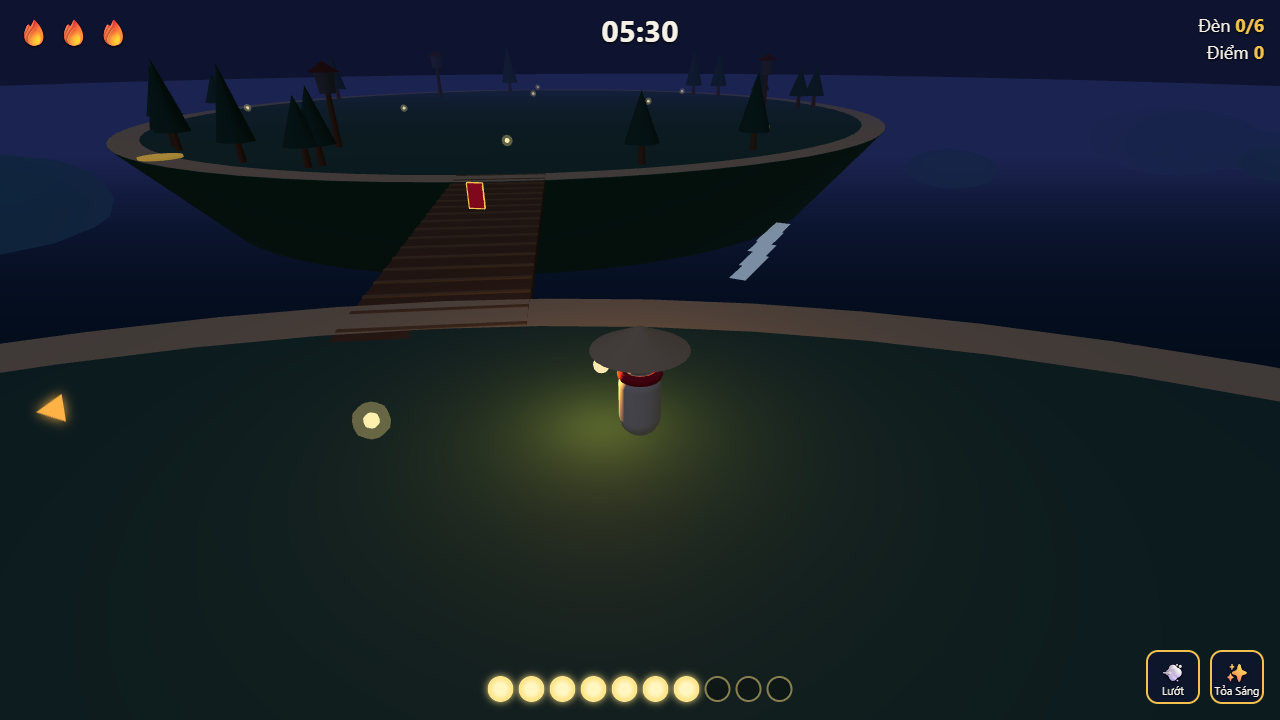
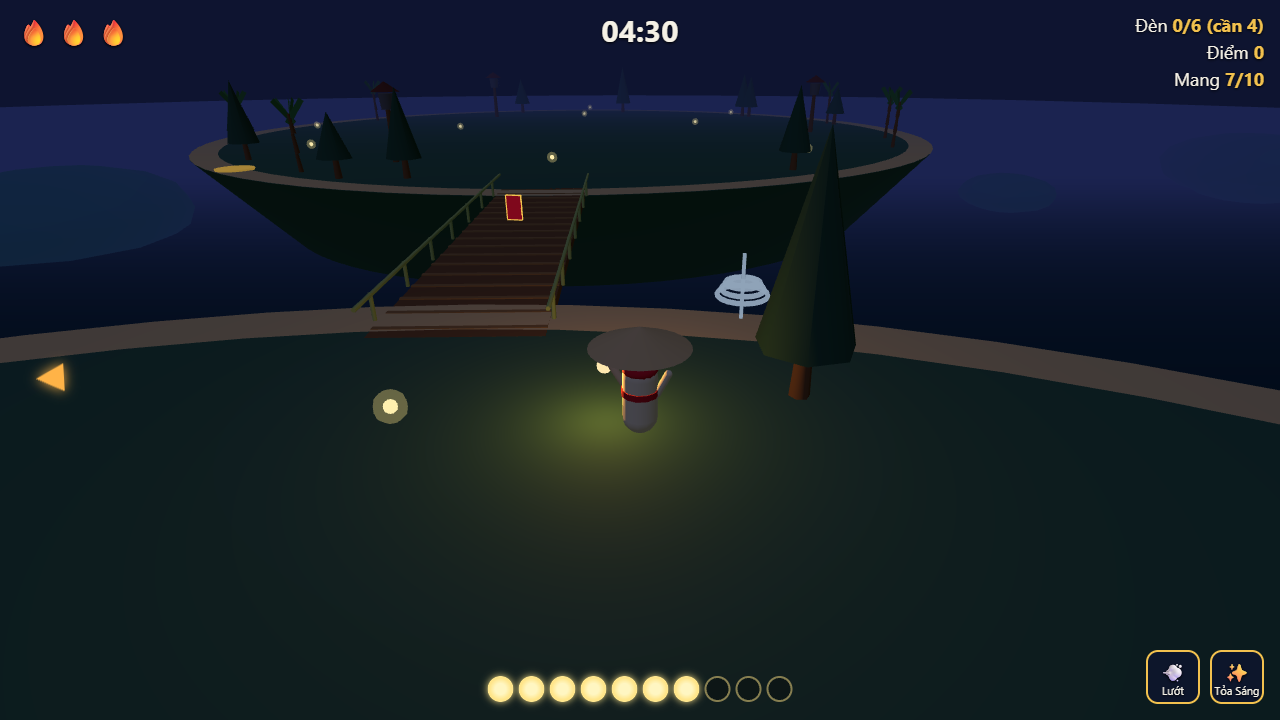
Visual redesign: player arms, shade ink-drop, drifter vortex, palm trees, bridge rails, tower lanterns
5-Component Filter (Fit & Clarity): entities now read more clearly as their role.
- Mây: add two capsule arms + waist sash — no longer looks like a puppet
- Bóng Mực: ink-drop body (taller, tapered), 3 wisp tentacles, menacing angled eyes
- Gió Lạc: vortex ring stack replaces 4 flat planes — readable as wind spirit
- Cây: 45% coconut palms (curved multi-segment trunk + 5 fan fronds) for variety
- Đêm 2 bridge: bamboo handrails on both sides
- Đêm 3 tower: 4 glowing eave lanterns + red accent ring
All changes in src/web/ only; headless output unchanged (79/79 tests pass).

diff --git a/src/web/world.ts b/src/web/world.ts
@@ -74,6 +74,18 @@ export function buildTerrain(map: NightDef): THREE.Group {
       slat.position.set(x, 0.01, 0);
       g.add(slat);
     }
+    // Bamboo handrails on both sides
+    for (const sz of [-2.1, 2.1]) {
+      const rail = new THREE.Mesh(new THREE.CylinderGeometry(0.055, 0.055, 18, 6), std(0x9ab870));
+      rail.rotation.z = Math.PI / 2;
+      rail.position.set(35, 0.65, sz);
+      g.add(rail);
+      for (let x = 27; x <= 43; x += 2.5) {
+        const post = new THREE.Mesh(new THREE.CylinderGeometry(0.055, 0.055, 0.7, 6), std(0x9ab870));
+        post.position.set(x, 0.35, sz);
+        g.add(post);
+      }
+    }
   }
   if (map.night === 3) {
     addIslandDisk(g, 0, 0, 45);
@@ -89,11 +101,23 @@ export function buildTerrain(map: NightDef): THREE.Group {
     g.add(t2);
     const tower = new THREE.Mesh(new THREE.CylinderGeometry(2, 2, 8, 24), std(PAL.wood));
     tower.position.y = 10;
+    // Red accent ring near tower top
+    const towerRing = new THREE.Mesh(new THREE.CylinderGeometry(2.08, 2.08, 0.18, 24), std(0xb82020));
+    towerRing.position.y = 13.5;
     const roof = new THREE.Mesh(new THREE.ConeGeometry(3, 2.5, 8), std(0x5a2a22));
     roof.position.y = 15.2;
     const bell = new THREE.Mesh(new THREE.SphereGeometry(0.9, 16, 12, 0, Math.PI * 2, 0, Math.PI / 2), std(PAL.gold, { metalness: 0.6, roughness: 0.4 }));
     bell.position.y = 13.4;
-    g.add(tower, roof, bell);
+    // 4 small hanging lanterns under roof eaves
+    for (let i = 0; i < 4; i++) {
+      const ea = (i / 4) * Math.PI * 2;
+      const hLamp = new THREE.Mesh(new THREE.SphereGeometry(0.18, 8, 6), std(PAL.lampOn, { emissive: new THREE.Color(PAL.lampOn), emissiveIntensity: 0.9 }));
+      hLamp.position.set(Math.cos(ea) * 2.4, 14.6, Math.sin(ea) * 2.4);
+      const hString = new THREE.Mesh(new THREE.CylinderGeometry(0.015, 0.015, 0.4, 4), std(PAL.wood));
+      hString.position.set(Math.cos(ea) * 2.4, 14.9, Math.sin(ea) * 2.4);
+      g.add(hLamp, hString);
+    }
+    g.add(tower, towerRing, roof, bell);
     for (const deg of [30, 150]) {
       const prof = new THREE.Shape();
       prof.moveTo(0, 0);
@@ -114,6 +138,7 @@ export function buildTerrain(map: NightDef): THREE.Group {
   // decorative trees near shores (never on the play paths)
   const treeMat = std(0x1f4a3c);
   const trunkMat = std(PAL.wood);
+  const palmFrondMat = new THREE.MeshLambertMaterial({ color: 0x3a7a4a, side: THREE.DoubleSide });
   for (const [cx, cz] of map.centers) {
     const R = map.night === 1 ? 40 : map.night === 2 ? 28 : 45;
     for (let i = 0; i < 18; i++) {
@@ -123,13 +148,34 @@ export function buildTerrain(map: NightDef): THREE.Group {
       const z = cz + r * Math.sin(a);
       if (map.ground(x, z) !== 0) continue;
       if (map.night === 2 && Math.abs(z) < 4 && x > 20 && x < 50) continue; // keep bridge ends clear
-      const h = 2 + rng() * 2;
       const tr = new THREE.Group();
-      const trunk = new THREE.Mesh(new THREE.CylinderGeometry(0.15, 0.2, 1, 6), trunkMat);
-      trunk.position.y = 0.5;
-      const crown = new THREE.Mesh(new THREE.ConeGeometry(0.9, h, 7), treeMat);
-      crown.position.y = 1 + h / 2;
-      tr.add(trunk, crown);
+      if (rng() < 0.45) {
+        // Coconut palm: 3 angled trunk segments + frond fan
+        const lean = (rng() - 0.5) * 0.25;
+        for (let s = 0; s < 3; s++) {
+          const seg = new THREE.Mesh(new THREE.CylinderGeometry(0.09, 0.14, 1.0, 6), trunkMat);
+          seg.position.set(s * lean * 0.4, 0.5 + s, 0);
+          seg.rotation.z = lean;
+          tr.add(seg);
+        }
+        // 5 flat fronds radiating from crown
+        for (let f = 0; f < 5; f++) {
+          const fa = (f / 5) * Math.PI * 2;
+          const frond = new THREE.Mesh(new THREE.PlaneGeometry(0.28, 1.5), palmFrondMat);
+          frond.position.set(Math.cos(fa) * 0.28 + lean * 1.2, 3.1, Math.sin(fa) * 0.28);
+          frond.rotation.y = -fa;
+          frond.rotation.z = -0.65;
+          tr.add(frond);
+        }
+      } else {
+        // Conifer / pine (original style, slightly varied)
+        const h = 2 + rng() * 2;
+        const trunk = new THREE.Mesh(new THREE.CylinderGeometry(0.15, 0.2, 1, 6), trunkMat);
+        trunk.position.y = 0.5;
+        const crown = new THREE.Mesh(new THREE.ConeGeometry(0.9, h, 7), treeMat);
+        crown.position.y = 1 + h / 2;
+        tr.add(trunk, crown);
+      }
       tr.position.set(x, 0, z);
       g.add(tr);
     }
@@ -139,20 +185,36 @@ export function buildTerrain(map: NightDef): THREE.Group {
 
 export function makePlayer() {
   const g = new THREE.Group();
-  const body = new THREE.Mesh(new THREE.CapsuleGeometry(0.33, 0.55, 4, 12), std(PAL.shirt));
-  body.position.y = 0.62;
-  const scarf = new THREE.Mesh(new THREE.TorusGeometry(0.27, 0.08, 8, 20), std(PAL.scarf));
+  // Áo dài silhouette: slimmer body, longer torso
+  const body = new THREE.Mesh(new THREE.CapsuleGeometry(0.29, 0.72, 4, 12), std(PAL.shirt));
+  body.position.y = 0.66;
+  // Waist sash
+  const sash = new THREE.Mesh(new THREE.CylinderGeometry(0.31, 0.31, 0.11, 12), std(PAL.scarf));
+  sash.position.y = 0.76;
+  // Neck scarf
+  const scarf = new THREE.Mesh(new THREE.TorusGeometry(0.22, 0.07, 8, 16), std(PAL.scarf));
   scarf.rotation.x = Math.PI / 2;
-  scarf.position.y = 1.08;
-  const head = new THREE.Mesh(new THREE.SphereGeometry(0.27, 16, 12), std(0xf3d2b3));
-  head.position.y = 1.32;
-  const hat = new THREE.Mesh(new THREE.ConeGeometry(0.75, 0.38, 28), std(PAL.sand));
-  hat.position.y = 1.67;
+  scarf.position.y = 1.14;
+  // Head
+  const head = new THREE.Mesh(new THREE.SphereGeometry(0.26, 16, 12), std(0xf3d2b3));
+  head.position.y = 1.38;
+  // Nón lá (wider, flatter — more authentic)
+  const hat = new THREE.Mesh(new THREE.ConeGeometry(0.82, 0.35, 32), std(PAL.sand));
+  hat.position.y = 1.69;
+  // Right arm — raised, holding lantern
+  const armR = new THREE.Mesh(new THREE.CapsuleGeometry(0.065, 0.42, 4, 8), std(0xf3d2b3));
+  armR.position.set(0.38, 0.95, 0.12);
+  armR.rotation.z = -0.55;
+  // Left arm — relaxed
+  const armL = new THREE.Mesh(new THREE.CapsuleGeometry(0.065, 0.42, 4, 8), std(PAL.shirt));
+  armL.position.set(-0.36, 0.9, 0);
+  armL.rotation.z = 0.45;
+  // Small hand-held lantern (at tip of right arm)
   const lamp = new THREE.Mesh(new THREE.SphereGeometry(0.13, 12, 10), new THREE.MeshBasicMaterial({ color: PAL.lampCore }));
-  lamp.position.set(0.6, 1.12, 0.15);
+  lamp.position.set(0.62, 1.05, 0.22);
   const light = new THREE.PointLight(PAL.lampOn, 6, 12, 1.4);
   light.position.copy(lamp.position);
-  g.add(body, scarf, head, hat, lamp, light);
+  g.add(body, sash, scarf, head, hat, armR, armL, lamp, light);
   return { g, light };
 }
 
@@ -215,17 +277,31 @@ export interface ShadeView {
 }
 export function makeShade(): ShadeView {
   const g = new THREE.Group();
+  // Ink-drop body: taller, tapers toward bottom
   const body = std(PAL.shadeBody, { roughness: 0.5 });
-  const blob = new THREE.Mesh(new THREE.SphereGeometry(0.8, 20, 14), body);
-  blob.scale.set(1, 1.15, 1);
+  const blob = new THREE.Mesh(new THREE.SphereGeometry(0.75, 20, 14), body);
+  blob.scale.set(1, 1.4, 1);
+  blob.position.y = 0.1;
   const rim = new THREE.MeshBasicMaterial({ color: PAL.shadeRim, side: THREE.BackSide });
-  const outline = new THREE.Mesh(new THREE.SphereGeometry(0.88, 20, 14), rim);
-  outline.scale.set(1, 1.15, 1);
+  const outline = new THREE.Mesh(new THREE.SphereGeometry(0.83, 20, 14), rim);
+  outline.scale.set(1, 1.4, 1);
+  outline.position.y = 0.1;
+  // Eyes — angled to look menacing
   const eyeMat = new THREE.MeshBasicMaterial({ color: 0xe8d8ff });
-  for (const sx of [-0.28, 0.28]) {
+  for (const [sx, rz] of [[-0.27, 0.35], [0.27, -0.35]] as [number, number][]) {
     const eye = new THREE.Mesh(new THREE.SphereGeometry(0.1, 8, 6), eyeMat);
-    eye.position.set(sx, 0.25, 0.7);
+    eye.position.set(sx, 0.35, 0.68);
+    eye.rotation.z = rz;
     g.add(eye);
+  }
+  // 3 wisp tentacles at base (ink dripping)
+  const wispMat = std(PAL.shadeBody, { roughness: 0.9 });
+  for (let i = 0; i < 3; i++) {
+    const a = (i / 3) * Math.PI * 2 + Math.PI / 6;
+    const wisp = new THREE.Mesh(new THREE.ConeGeometry(0.08, 0.55, 5), wispMat);
+    wisp.rotation.z = Math.PI; // point downward
+    wisp.position.set(Math.cos(a) * 0.3, -0.62, Math.sin(a) * 0.3);
+    g.add(wisp);
   }
   g.add(blob, outline);
   return { g, body, rim };
@@ -233,13 +309,20 @@ export function makeShade(): ShadeView {
 
 export function makeDrifter() {
   const g = new THREE.Group();
-  const mat = new THREE.MeshBasicMaterial({ color: PAL.drifter, transparent: true, opacity: 0.85, side: THREE.DoubleSide });
+  // Wind-vortex form: stacked torus rings with shrinking radius = whirlwind silhouette
+  const mat = new THREE.MeshBasicMaterial({ color: PAL.drifter, transparent: true, opacity: 0.8, side: THREE.DoubleSide });
   for (let i = 0; i < 4; i++) {
-    const strip = new THREE.Mesh(new THREE.PlaneGeometry(0.35, 1.6), mat);
-    strip.position.set(0, 0, -i * 0.55);
-    strip.rotation.x = Math.PI / 2;
-    g.add(strip);
+    const r = 0.52 - i * 0.08;
+    const ring = new THREE.Mesh(new THREE.TorusGeometry(r, 0.055, 6, 18), mat);
+    ring.position.y = i * 0.38;
+    ring.rotation.x = Math.PI / 2;
+    ring.rotation.z = (i * Math.PI) / 3; // stagger for spiral look
+    g.add(ring);
   }
+  // Thin central core
+  const core = new THREE.Mesh(new THREE.CylinderGeometry(0.04, 0.04, 1.4, 6), mat);
+  core.position.y = 0.5;
+  g.add(core);
   return g;
 }
 
